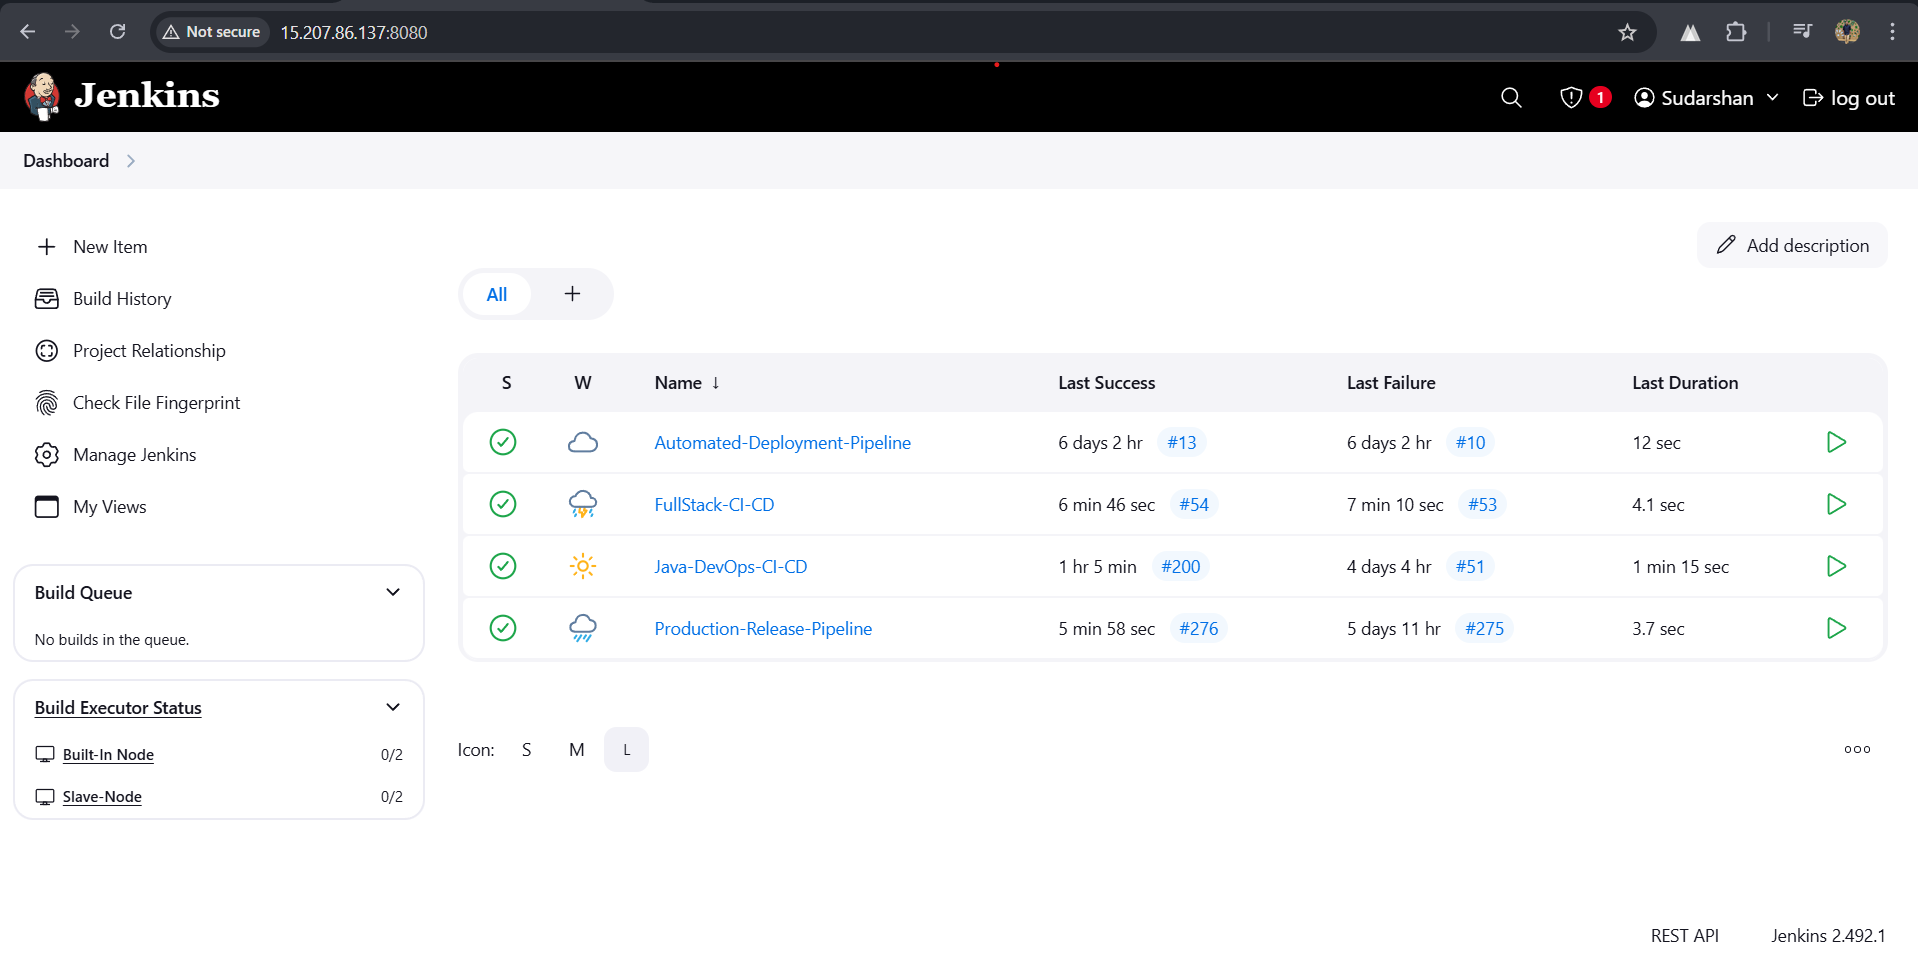
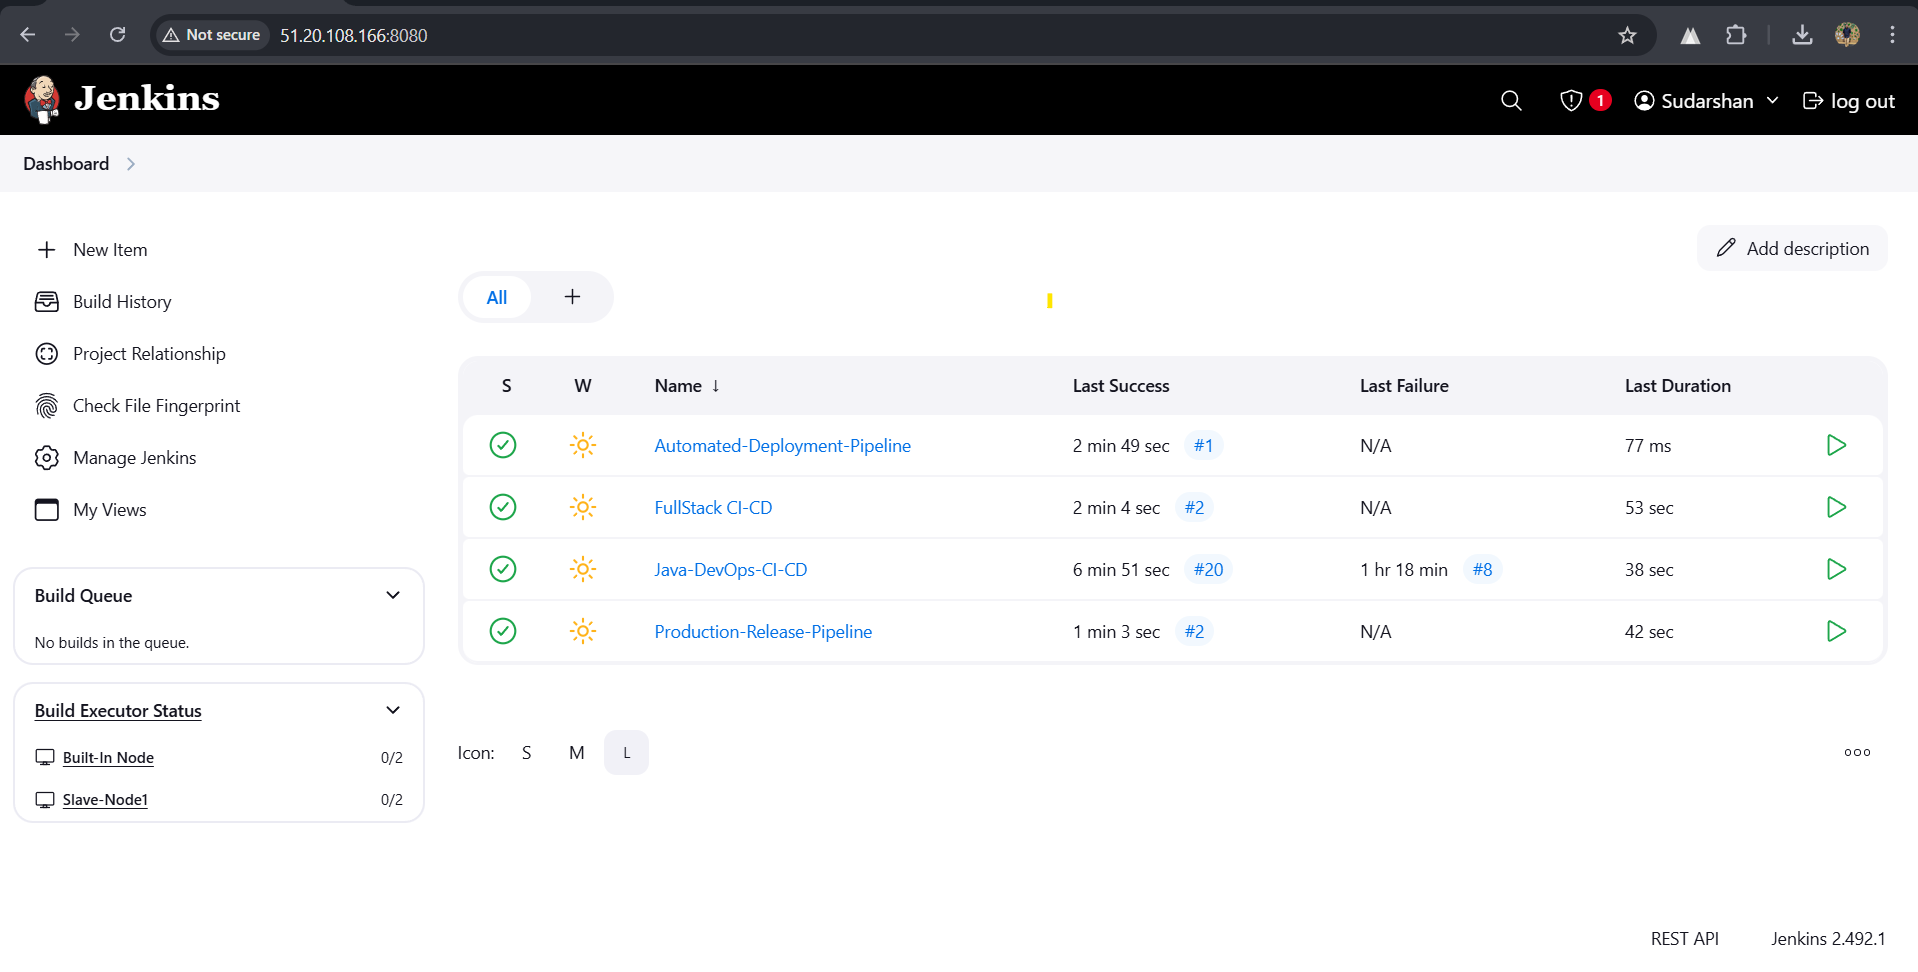
Add files via upload

diff --git a/docs/tools/jenkins.md b/docs/tools/jenkins.md
@@ -1,21 +1,22 @@
-# Jenkins Setup Guide for AWS with Slave Architecture 🚀
+# Jenkins Master-Slave Setup Guide 🚀
 
 ## 📋 Overview
-This document provides a step-by-step guide to setting up **Jenkins** on AWS with a **master-slave architecture** for efficient CI/CD automation. It includes required software installations, configurations, and best practices for a production-ready Jenkins environment.
+This document provides a step-by-step guide to setting up **Jenkins** with a **master-slave architecture** for efficient CI/CD automation. It includes required software installations, configurations, and best practices for a production-ready Jenkins environment.
 
 ---
 
-## 🏷 Architecture Diagram
+## 🏛 Architecture Diagram
 
-![Jenkins AWS Slave Architecture](../images/jenkins_architecture.png)
+![Jenkins Master-Slave Architecture](../../images/jenkins_architecture.png)
 
 ---
 
 ## 📌 Prerequisites
 
-### ✅ AWS Setup
-- **Jenkins Master**: An AWS EC2 instance (Ubuntu 22.04 recommended) to run Jenkins.
-- **Jenkins Slaves**: Separate AWS EC2 instances (Ubuntu 22.04 recommended) to execute builds.
+### ✅ System Requirements
+- **Jenkins Master**: An Ubuntu 22.04 machine to run Jenkins.
+- **Jenkins Slaves**: Separate Ubuntu 22.04 machines to execute builds.
+- **Instance Type**: Use **t3.medium** for Jenkins Slave nodes (t3.micro is not sufficient).
 - **Security Group Configuration**:
   - Allow **Port 8080** for Jenkins UI on the Master.
   - Allow **Port 22** for SSH access (for Jenkins Slave Nodes and remote administration).
@@ -23,7 +24,7 @@ This document provides a step-by-step guide to setting up **Jenkins** on AWS wit
 
 ### ✅ Required Software
 - **Jenkins (LTS Version) installed on Master**
-- **Java 17 (Amazon Corretto recommended) installed on both Master and Slaves**
+- **Java 8 & Java 17 installed on both Master and Slaves**
 - **Maven & Gradle** (for Java builds, installed on both Master and Slaves)
 - **Git** (for source code versioning, installed on both Master and Slaves)
 - **Docker** (optional, for containerized builds)
@@ -32,7 +33,7 @@ This document provides a step-by-step guide to setting up **Jenkins** on AWS wit
 
 ---
 
-## 🔧 Jenkins Master Setup (AWS EC2 Instance)
+## 🔧 Jenkins Master Setup
 
 ### **1⃣ Install Java 17**
 ```bash
@@ -76,31 +77,90 @@ sudo ufw enable
 sudo cat /var/lib/jenkins/secrets/initialAdminPassword
 ```
 
-- Access **Jenkins UI**: `http://<EC2-PUBLIC-IP>:8080`
+- Access **Jenkins UI**: `http://<JENKINS_MASTER_IP>:8080`
 - Enter the **Admin Password**.
 - Install recommended plugins.
 
 ---
 
-## 🔧 Jenkins Slave Node Setup (AWS EC2 Instance) (Running on a Different Machine)
+## 🔧 Jenkins Slave Node Setup
 
-### **1. Install Java & Required Tools**
+### **1. Install Java 8 & Java 17**
 ```bash
 sudo apt update
-sudo apt install -y openjdk-17-jdk git maven gradle
+sudo apt install -y openjdk-8-jdk openjdk-17-jdk
 java -version
 ```
-### **2. Configure Jenkins Master to Recognize Slave**
+
+### **2. Configure Java Alternatives**
+To manage multiple Java versions, use `update-alternatives`:
+```bash
+sudo update-alternatives --config java
+```
+Select the appropriate version and verify:
+```bash
+java -version
+```
+
+### **3. Configure SSH Credentials for Slave Node**
+- In **Jenkins UI**:
+  - Go to **Manage Jenkins** → **Manage Credentials**.
+  - Select **Global credentials (unrestricted)**.
+  - Click **Add Credentials**.
+  - Choose **SSH Username with Private Key**.
+  - Enter **ID** (e.g., `Slave1Credential`).
+  - Enter **Username** (e.g., `ubuntu`).
+  - Select **Enter Directly** for Private Key.
+  - Paste the Private Key.
+  - Click **Add** to save credentials.
+
+![Jenkins Slave Credentials Setup](../../images/jenkins_slave_credentials.png)
+
+### **4. Configure Jenkins Master to Recognize Slave**
 - In **Jenkins UI**:
   - Go to **Manage Jenkins** → **Manage Nodes and Clouds**.
   - Click **New Node** → Enter Slave Name.
   - Choose **Permanent Agent**.
   - Set Remote Root Directory (`/home/ubuntu/slavenode1`).
   - Choose **Launch method: SSH**.
-  - Enter **Slave's Public IP & SSH credentials**.
+  - Enter **Slave's Public IP & Select SSH credentials** (created in Step 3).
   - Select **Manually Trusted Key Verification Strategy**.
   - Set Availability to **Keep this agent online as much as possible**.
   - Save & Test Connection.
+
+![Jenkins Slave Node Setup](../../images/jenkins_slave_setup1.png)
+
+![Jenkins Slave Node Setup](../../images/jenkins_slave_setup2.png)
+---
+
+## 🔥 Configuring GitHub Credentials for Jenkins
+
+### **1. Generate a GitHub Personal Access Token**
+- Go to [GitHub Personal Access Tokens](https://github.com/settings/tokens/new)
+- Select **Tokens (classic)**.
+- Provide a **Note** (e.g., `Git-Credential`).
+- Set **Expiration** (e.g., `30 days`).
+- Enable the following scopes:
+  - `repo` (Full control of private repositories)
+  - `workflow` (GitHub Actions access)
+  - `write:packages`, `read:packages`
+  - `admin:public_key`, `read:public_key`
+- Click **Generate Token** and copy the token.
+
+![GitHub Token Generation](../../images/github_token_generation.png)
+
+### **2. Add GitHub Token to Jenkins Credentials**
+- In **Jenkins UI**:
+  - Go to **Manage Jenkins** → **Manage Credentials**.
+  - Select **Global credentials (unrestricted)**.
+  - Click **Add Credentials**.
+  - Choose **Secret text**.
+  - Enter **ID** (e.g., `Git-Credential`).
+  - Paste the **GitHub Token** in the **Secret** field.
+  - Click **Create**.
+
+![Jenkins Git Credentials](../../images/jenkins_git_credentials.png)
+
 ---
 
 ## 🔥 Installing Required Plugins
@@ -114,6 +174,7 @@ wget http://updates.jenkins-ci.org/download/plugins/maven-plugin/latest/maven-pl
 Or install via Jenkins UI:
 - **Git Plugin**
 - **Pipeline Plugin**
+- **Pipeline: Stage View Plugin**
 - **SonarQube Scanner Plugin**
 - **Nexus Artifact Uploader**
 - **Docker Plugin** (if using Docker)
@@ -123,27 +184,26 @@ Or install via Jenkins UI:
 
 ## 🏁 Final Verification
 
-### ✅ **Jenkins Master (Running on a Separate Machine)**
-- Jenkins UI is accessible at `http://<EC2-PUBLIC-IP>:8080`
+### ✅ **Jenkins Master**
+- Jenkins UI is accessible at `http://<JENKINS_MASTER_IP>:8080`
 - Slave nodes are successfully connected.
 - Required plugins are installed.
 
-### ✅ **Jenkins Slave Nodes (Running on Separate EC2 Instances)**
+### ✅ **Jenkins Slave Nodes**
 - Slave agents are running.
 - Slave can execute build jobs.
 
-![Jenkins Dashboard](../images/jenkins_dashboard.png)
+![Jenkins Dashboard](../../images/jenkins_dashboard.png)
 
 ---
 
 ## 📄 Additional Documentation
 - **[Jenkins Official Docs](https://www.jenkins.io/doc/)**
-- **[AWS EC2 Setup Guide](https://docs.aws.amazon.com/ec2/)**
 - **[Jenkins with AWS CodeDeploy](https://docs.aws.amazon.com/codedeploy/latest/userguide/integrating-jenkins-with-codedeploy.html)**
 
 ---
 
-## 📧 Contact
+## 💎 Contact
 📧 **Email**: [sudarshangawande98@gmail.com](mailto:sudarshangawande98@gmail.com)  
 📎 **GitHub**: [Sudarshan Gawande](https://github.com/sudarshangawande98)
 
